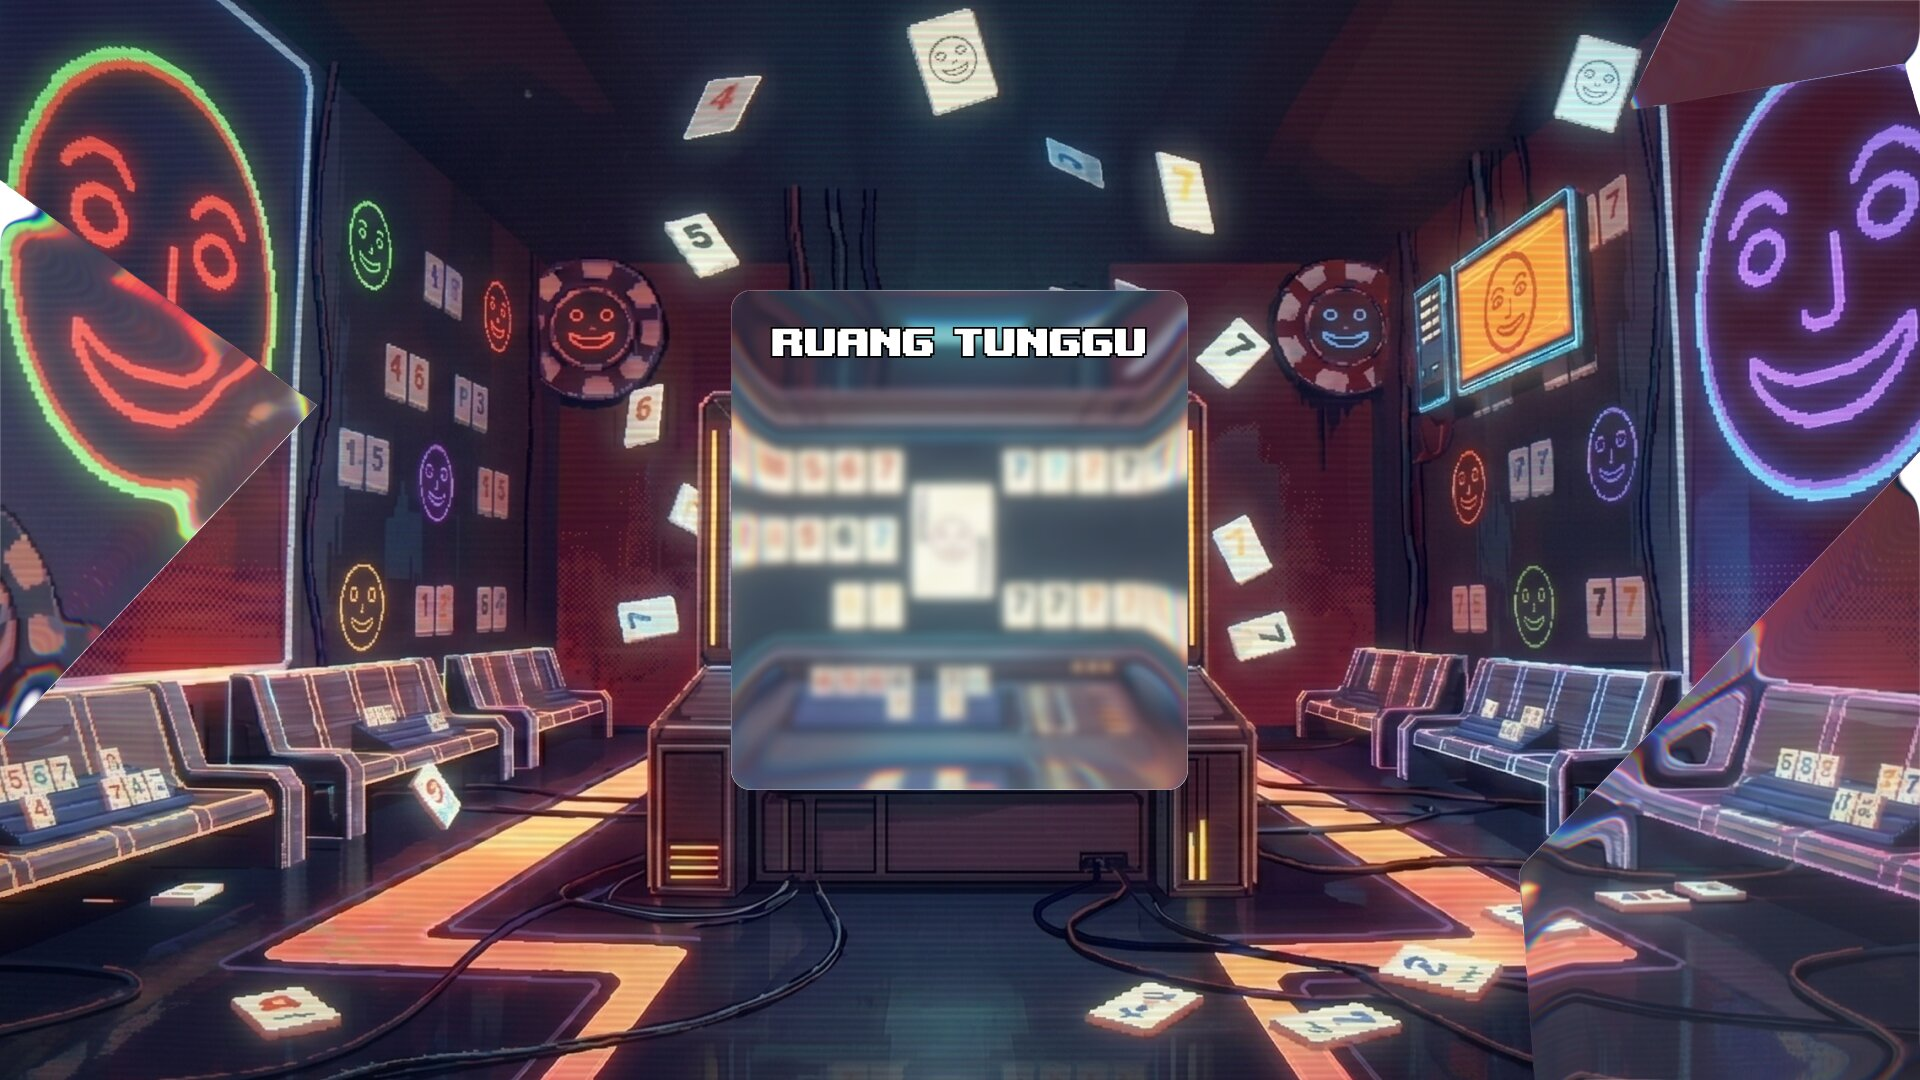
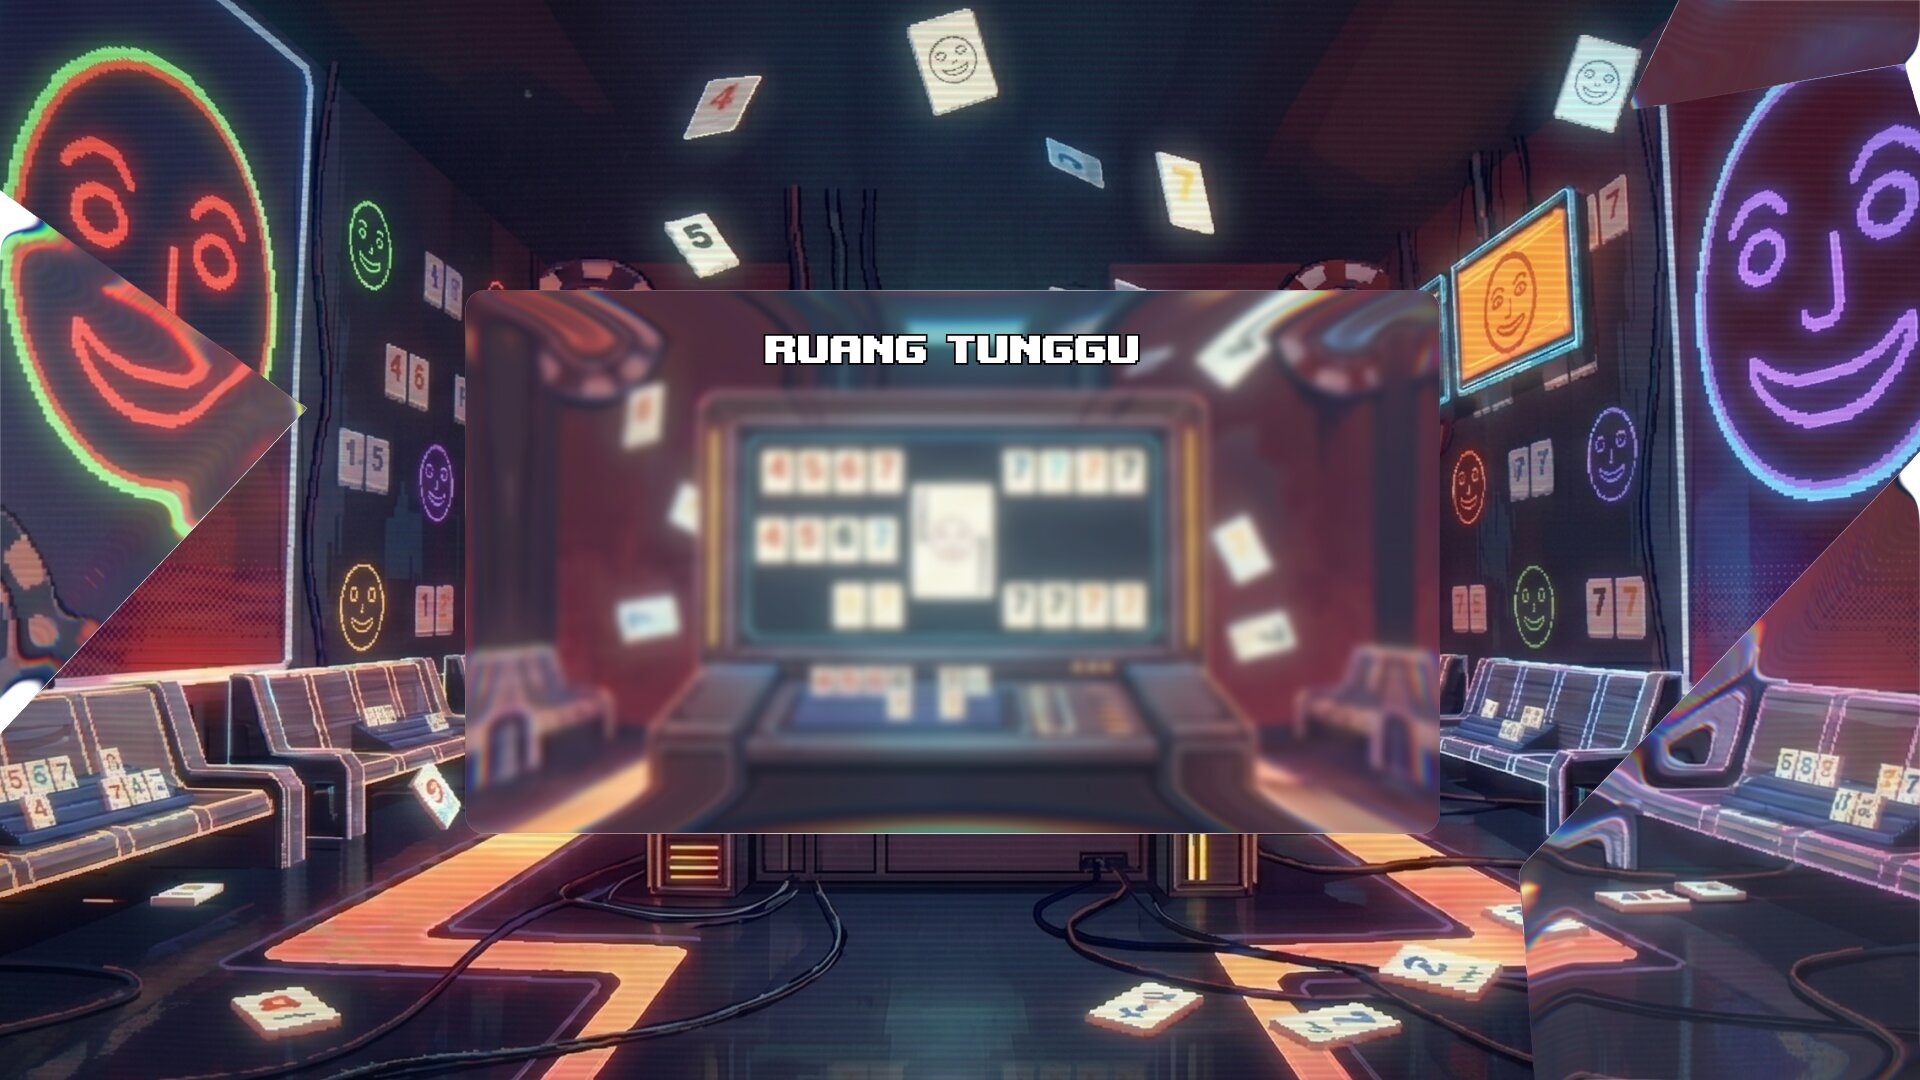
Fix scaling for gamescreen

diff --git a/Game/core/src/main/java/com/rummikub/screens/GameScreen.java b/Game/core/src/main/java/com/rummikub/screens/GameScreen.java
@@ -47,7 +47,7 @@ public class GameScreen extends BaseScreen implements TileDragHandler.Callback {
     private static final float HEADER_H     = 60f;
     private static final float BUTTON_BAR_H = 60f;
     private static final float RACK_H       = 100f;
-    private static final float TABLE_H      = Constants.SCREEN_HEIGHT - HEADER_H - BUTTON_BAR_H - RACK_H;
+    private static final float TABLE_H      = Constants.VIRTUAL_HEIGHT - HEADER_H - BUTTON_BAR_H - RACK_H;
 
     private static final float RACK_Y       = 0f;
     private static final float BTN_BAR_Y    = RACK_H;
@@ -153,7 +153,7 @@ public class GameScreen extends BaseScreen implements TileDragHandler.Callback {
 
     private void buildHeader() {
         Table header = new Table();
-        header.setBounds(0, HEADER_Y, Constants.SCREEN_WIDTH, HEADER_H);
+        header.setBounds(0, HEADER_Y, Constants.VIRTUAL_WIDTH, HEADER_H);
         header.setBackground(makeColorDrawable(new Color(0.08f, 0.14f, 0.08f, 1f)));
         header.left().pad(10);
 
@@ -186,7 +186,7 @@ public class GameScreen extends BaseScreen implements TileDragHandler.Callback {
         tableGroup.setSize(3000, TABLE_H - 20); // wide enough for many sets
 
         tableScroll = new ScrollPane(tableGroup, buildScrollPaneStyle());
-        tableScroll.setBounds(0, TABLE_Y, Constants.SCREEN_WIDTH, TABLE_H);
+        tableScroll.setBounds(0, TABLE_Y, Constants.VIRTUAL_WIDTH, TABLE_H);
         tableScroll.setScrollingDisabled(false, true);
         tableScroll.setFadeScrollBars(false);
         tableScroll.setCancelTouchFocus(false);
@@ -229,7 +229,7 @@ public class GameScreen extends BaseScreen implements TileDragHandler.Callback {
 
     private void buildButtonBar() {
         Table bar = new Table();
-        bar.setBounds(0, BTN_BAR_Y, Constants.SCREEN_WIDTH, BUTTON_BAR_H);
+        bar.setBounds(0, BTN_BAR_Y, Constants.VIRTUAL_WIDTH, BUTTON_BAR_H);
         bar.setBackground(makeColorDrawable(new Color(0.10f, 0.10f, 0.10f, 1f)));
         bar.pad(8);
 
@@ -302,17 +302,17 @@ public class GameScreen extends BaseScreen implements TileDragHandler.Callback {
 
         // Rack Background (Dark Brown)
         Image rackBg = new Image(makeColorDrawable(new Color(0.35f, 0.22f, 0.10f, 1f)));
-        rackBg.setBounds(0, 0, Constants.SCREEN_WIDTH, RACK_H + RACK_Y);
+        rackBg.setBounds(0, 0, Constants.VIRTUAL_WIDTH, RACK_H + RACK_Y);
         stage.addActor(rackBg);
 
         // Rack Border (Light Brown)
         Image rackBorder = new Image(makeColorDrawable(new Color(0.55f, 0.38f, 0.18f, 1f)));
-        rackBorder.setBounds(0, RACK_Y + RACK_H - 2, Constants.SCREEN_WIDTH, 3);
+        rackBorder.setBounds(0, RACK_Y + RACK_H - 2, Constants.VIRTUAL_WIDTH, 3);
         stage.addActor(rackBorder);
 
         // Group for tile actors
         rackGroup = new Group();
-        rackGroup.setBounds(0, RACK_Y, Constants.SCREEN_WIDTH, RACK_H);
+        rackGroup.setBounds(0, RACK_Y, Constants.VIRTUAL_WIDTH, RACK_H);
         stage.addActor(rackGroup);
 
         rackForbiddenOverlay = buildRackForbiddenOverlay();
@@ -322,7 +322,7 @@ public class GameScreen extends BaseScreen implements TileDragHandler.Callback {
     private Actor buildRackForbiddenOverlay() {
         // Use a Table so we can center a label inside it
         Table overlay = new Table();
-        overlay.setBounds(0, RACK_Y, Constants.SCREEN_WIDTH, RACK_H);
+        overlay.setBounds(0, RACK_Y, Constants.VIRTUAL_WIDTH, RACK_H);
         overlay.setBackground(makeColorDrawable(new Color(0.7f, 0.05f, 0.05f, 0.80f)));
 
         Label forbidLabel = makeLabel("⛔  Tidak bisa diletakkan di sini");
@@ -341,7 +341,7 @@ public class GameScreen extends BaseScreen implements TileDragHandler.Callback {
         waitingOverlay.setColor(new Color(1f, 1f, 0.5f, 1f));
         waitingOverlay.setFontScale(1.4f);
         waitingOverlay.setPosition(
-                Constants.SCREEN_WIDTH / 2f - 200,
+                Constants.VIRTUAL_WIDTH / 2f - 200,
                 TABLE_Y + TABLE_H / 2f);
         waitingOverlay.setVisible(false);
         stage.addActor(waitingOverlay);
